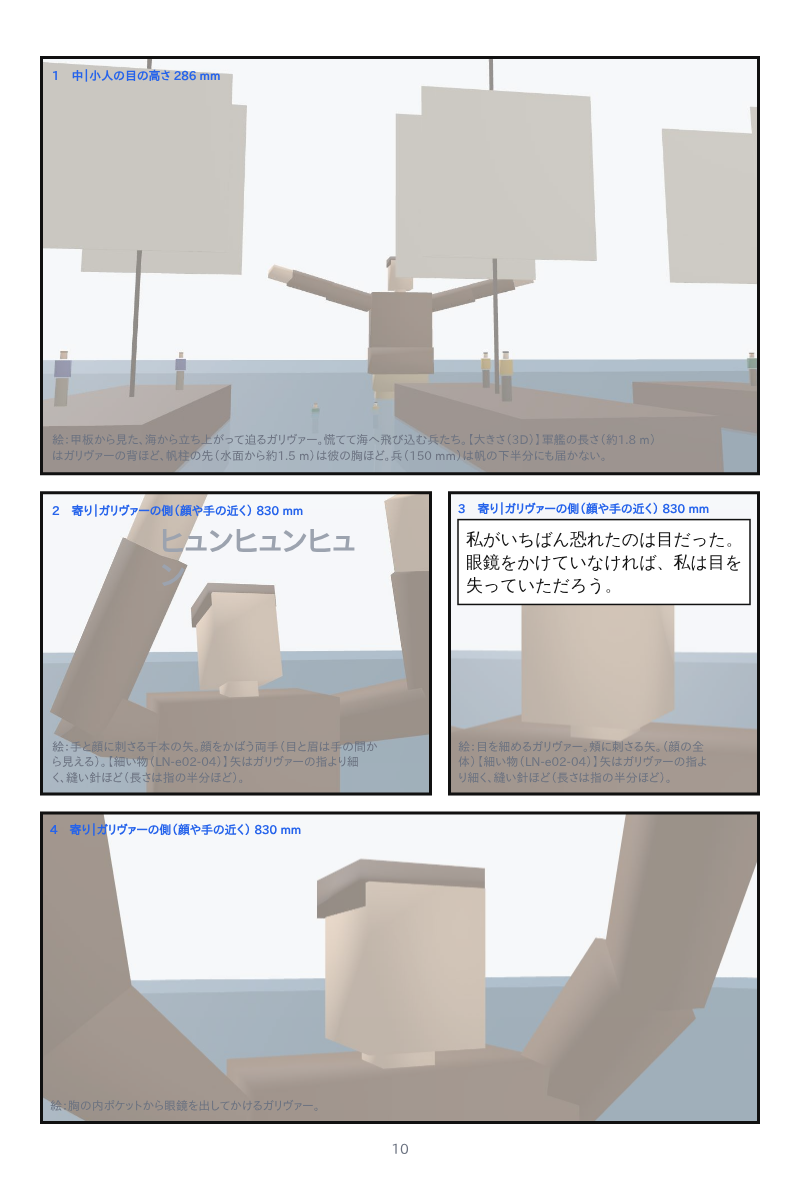
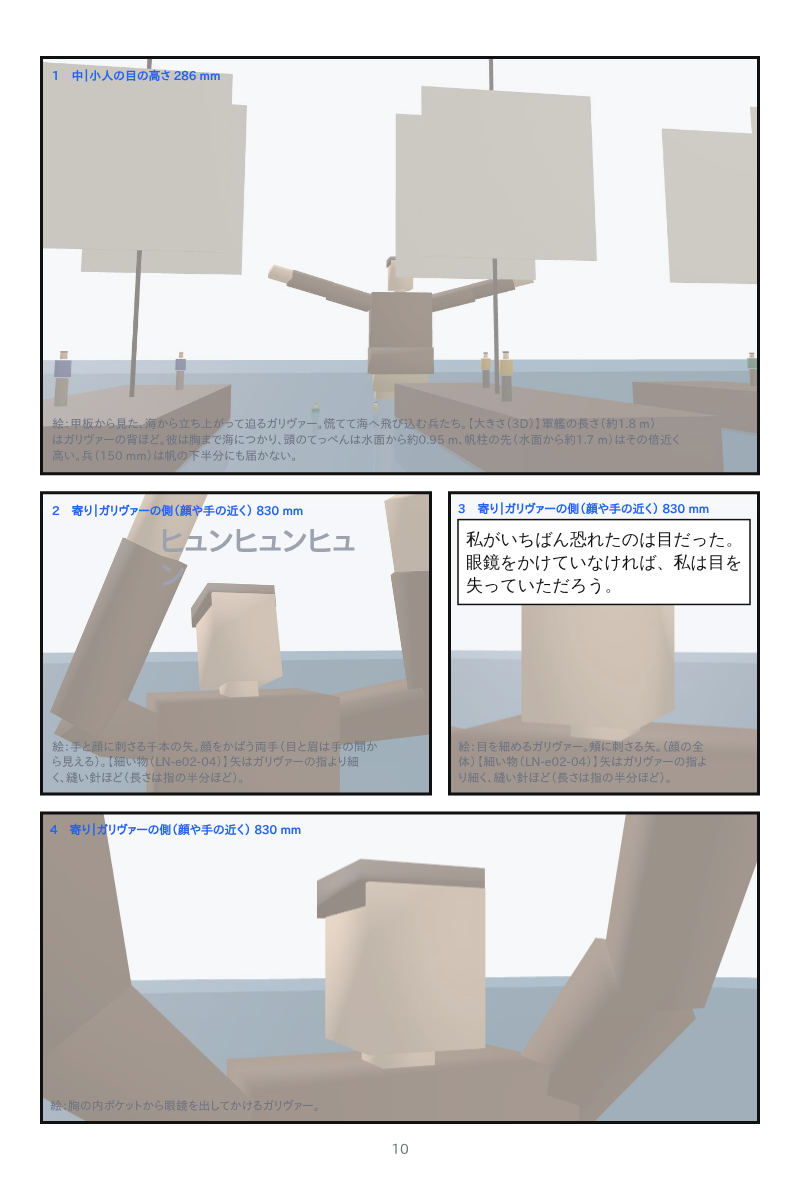
第3話ネーム：艦隊のコマの大きさの数字を、海につかった姿で測り直す
帆柱の先は水面から約1.7 m、胸まで海につかったガリヴァーの頭は約0.9 m（10-1・12-2）。

Claude-Session: https://claude.ai/code/session_01XJNGYHfC5R2ajPckUiqCxE

Changed region(s): [[0.0625, 0.3356, 0.75, 0.3966]]

diff --git a/part1/name/gulliver-ep03-name.ts b/part1/name/gulliver-ep03-name.ts
@@ -129,7 +129,7 @@ export const EP03_NAME: NamePage[] = [
   {
     scene: 'SC-010',
     tiers: [
-      { h: 4, panels: [{ take: 1, shot: '中', cam: L('軍艦の甲板から、迫る巨人を見上げる', DECK), art: '甲板から見た、海から立ち上がって迫るガリヴァー。慌てて海へ飛び込む兵たち。【大きさ（3D）】軍艦の長さ（約1.8 m）はガリヴァーの背ほど、帆柱の先（水面から約1.5 m）は彼の胸ほど。兵（150 mm）は帆の下半分にも届かない。', size: true }] },
+      { h: 4, panels: [{ take: 1, shot: '中', cam: L('軍艦の甲板から、迫る巨人を見上げる', DECK), art: '甲板から見た、海から立ち上がって迫るガリヴァー。慌てて海へ飛び込む兵たち。【大きさ（3D）】軍艦の長さ（約1.8 m）はガリヴァーの背ほど。彼は胸まで海につかり、頭のてっぺんは水面から約0.95 m、帆柱の先（水面から約1.7 m）はその倍近く高い。兵（150 mm）は帆の下半分にも届かない。', size: true }] },
       {
         h: 3,
         panels: [
@@ -152,7 +152,7 @@ export const EP03_NAME: NamePage[] = [
     scene: 'SC-010',
     tiers: [
       { h: 6, panels: [{ take: 1, shot: '大引き', cam: W('海の上から、艦隊を引いて海峡を戻るガリヴァーを', 3000), art: '50隻の艦隊を綱で引き、胸まで海につかって海峡を戻るガリヴァー。帆の並ぶ艦隊が後ろに続く。【細い物（LN-e02-04）】手から艦隊の舳先まで約3 m の綱の束（手首より細い）を、両端とも見せる。' }] },
-      { h: 4, panels: [{ take: 1, shot: '引き', cam: L('ブレフスキュの浜から、遠ざかる艦隊を'), art: 'ブレフスキュの浜で叫ぶ人々。遠ざかる巨人と艦隊。【大きさ（3D）】帆柱（約1.5 m）は浜の人々の10倍の高さ、巨人はその上に肩から上が出る。', size: true }] },
+      { h: 4, panels: [{ take: 1, shot: '引き', cam: L('ブレフスキュの浜から、遠ざかる艦隊を'), art: 'ブレフスキュの浜で叫ぶ人々。遠ざかる巨人と艦隊。【大きさ（3D）】帆柱の先は水面から約1.7 m で、浜の人々（150 mm）の10倍以上。胸まで海につかった巨人の頭（水面から約0.9 m）は、帆柱の半分ほどの高さで、帆の間に見える。', size: true }] },
     ],
   },
   {
